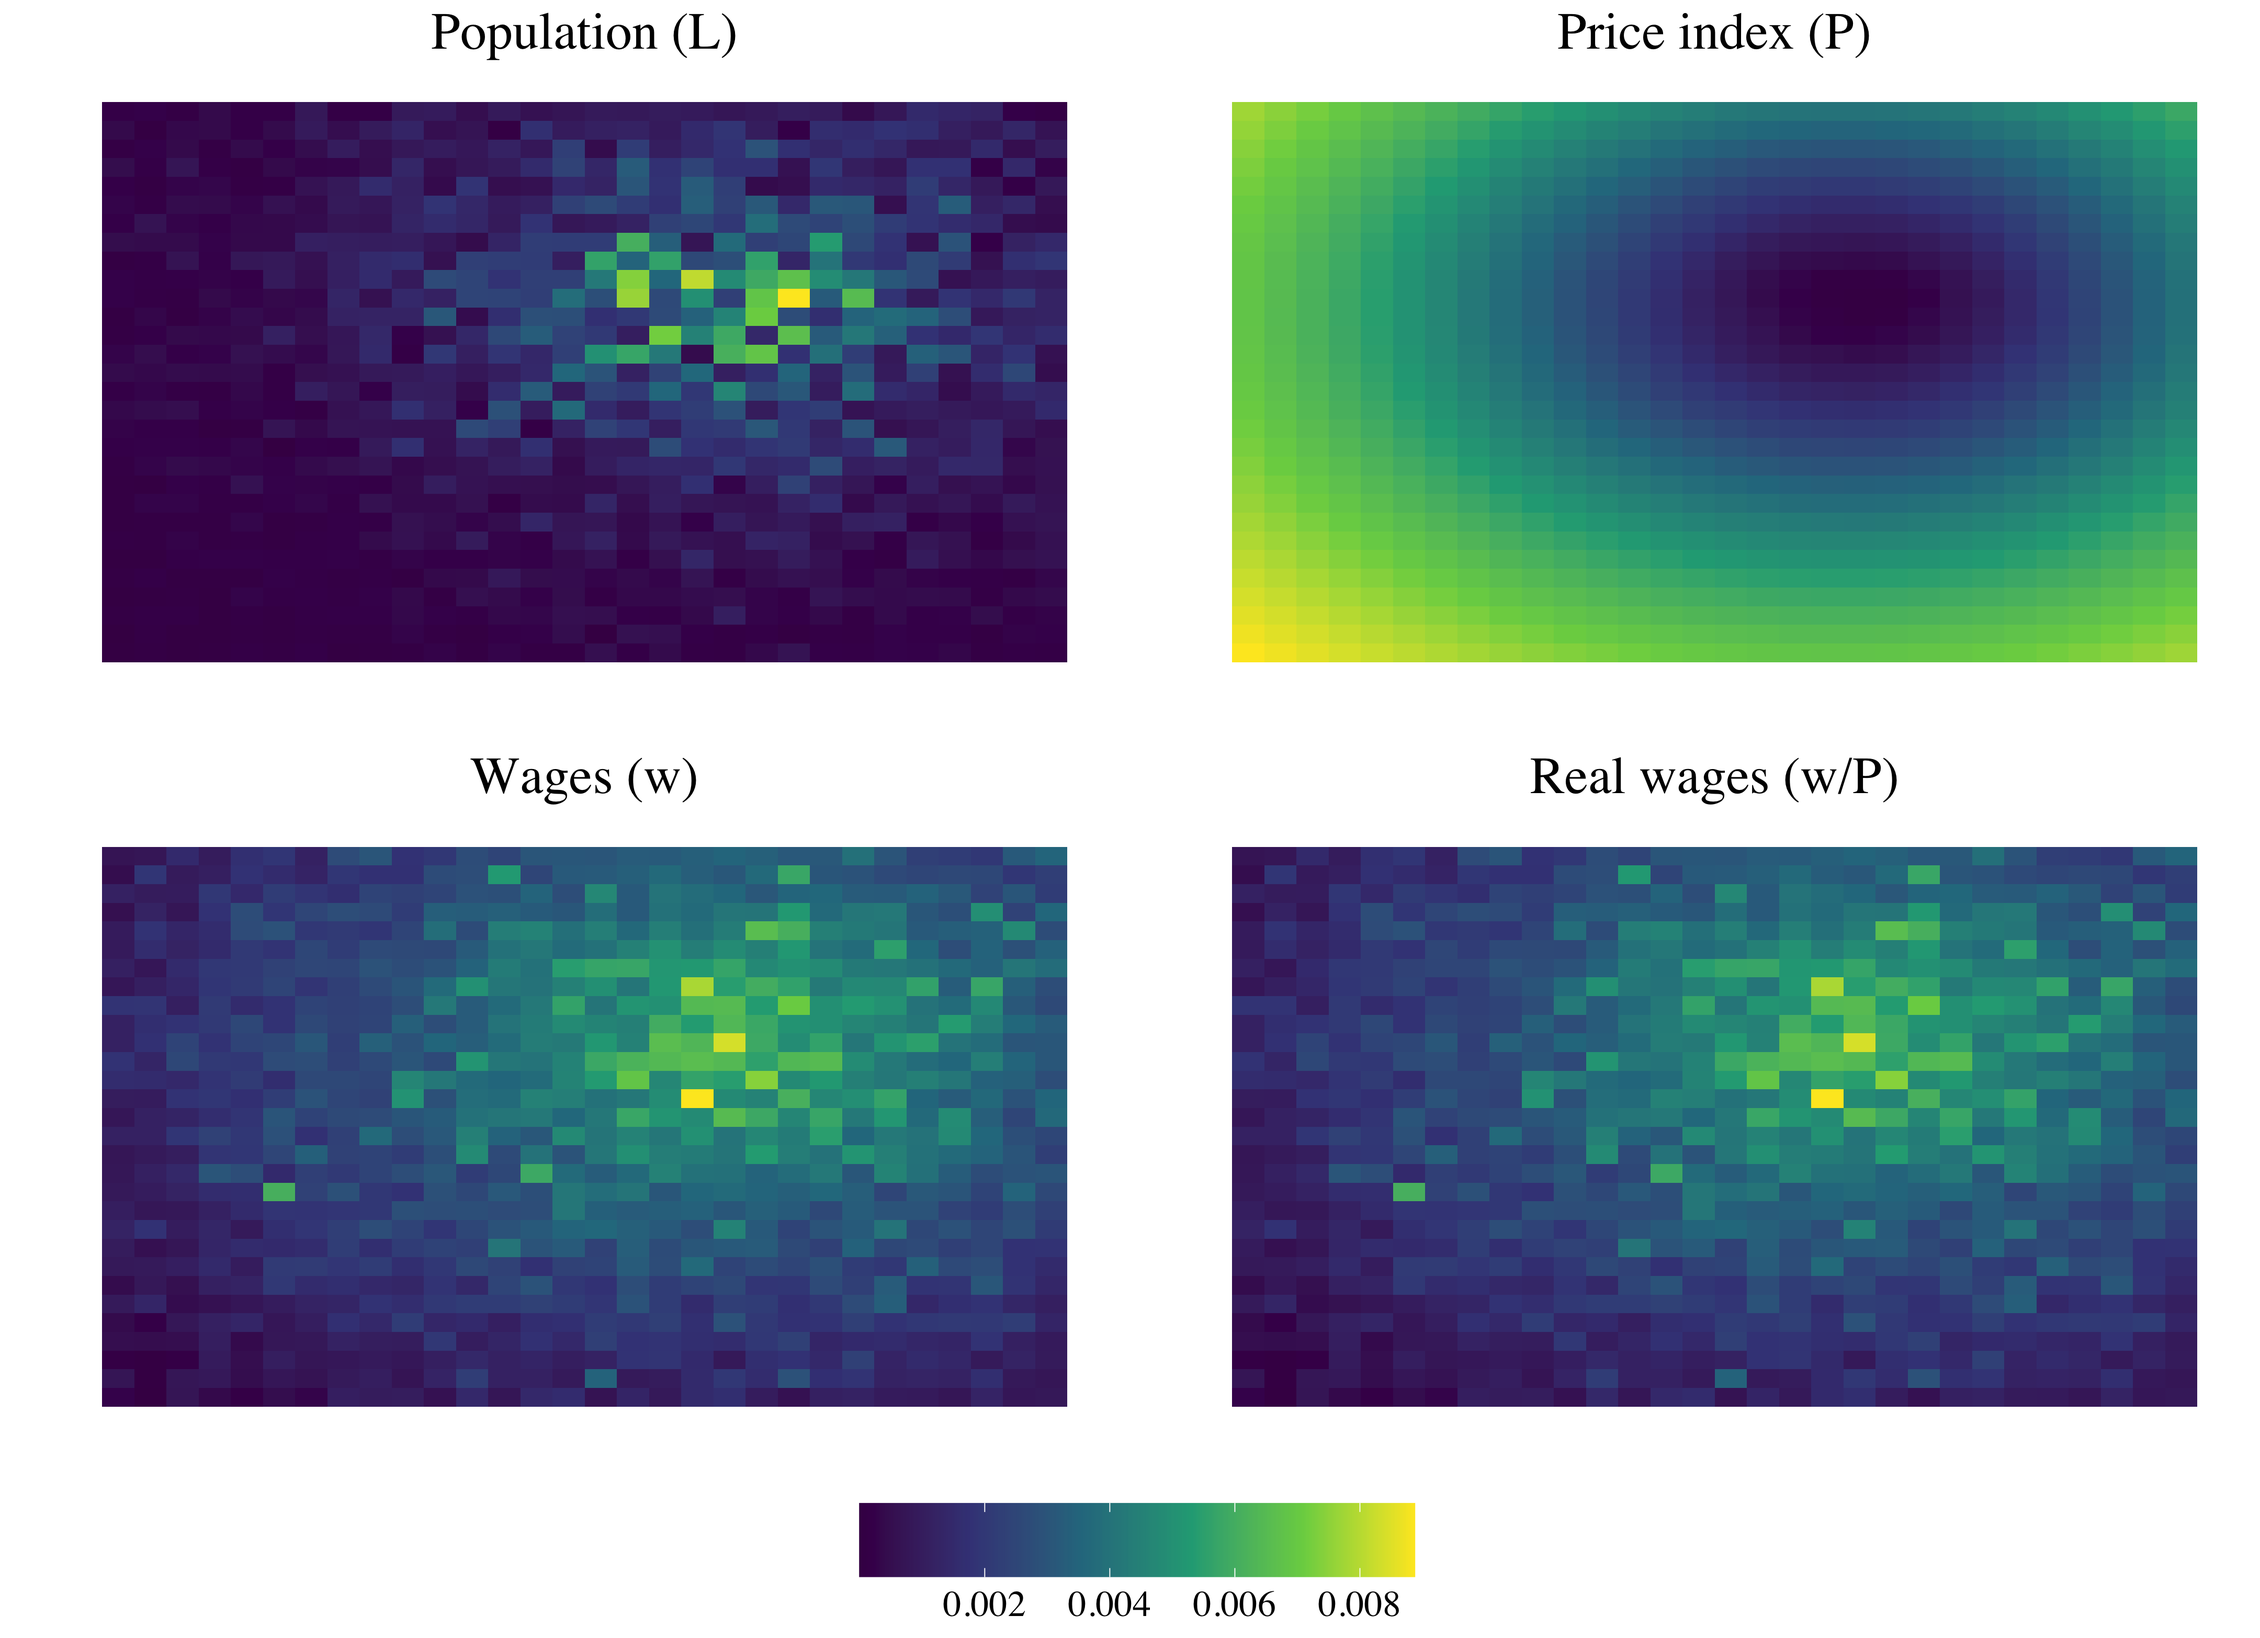
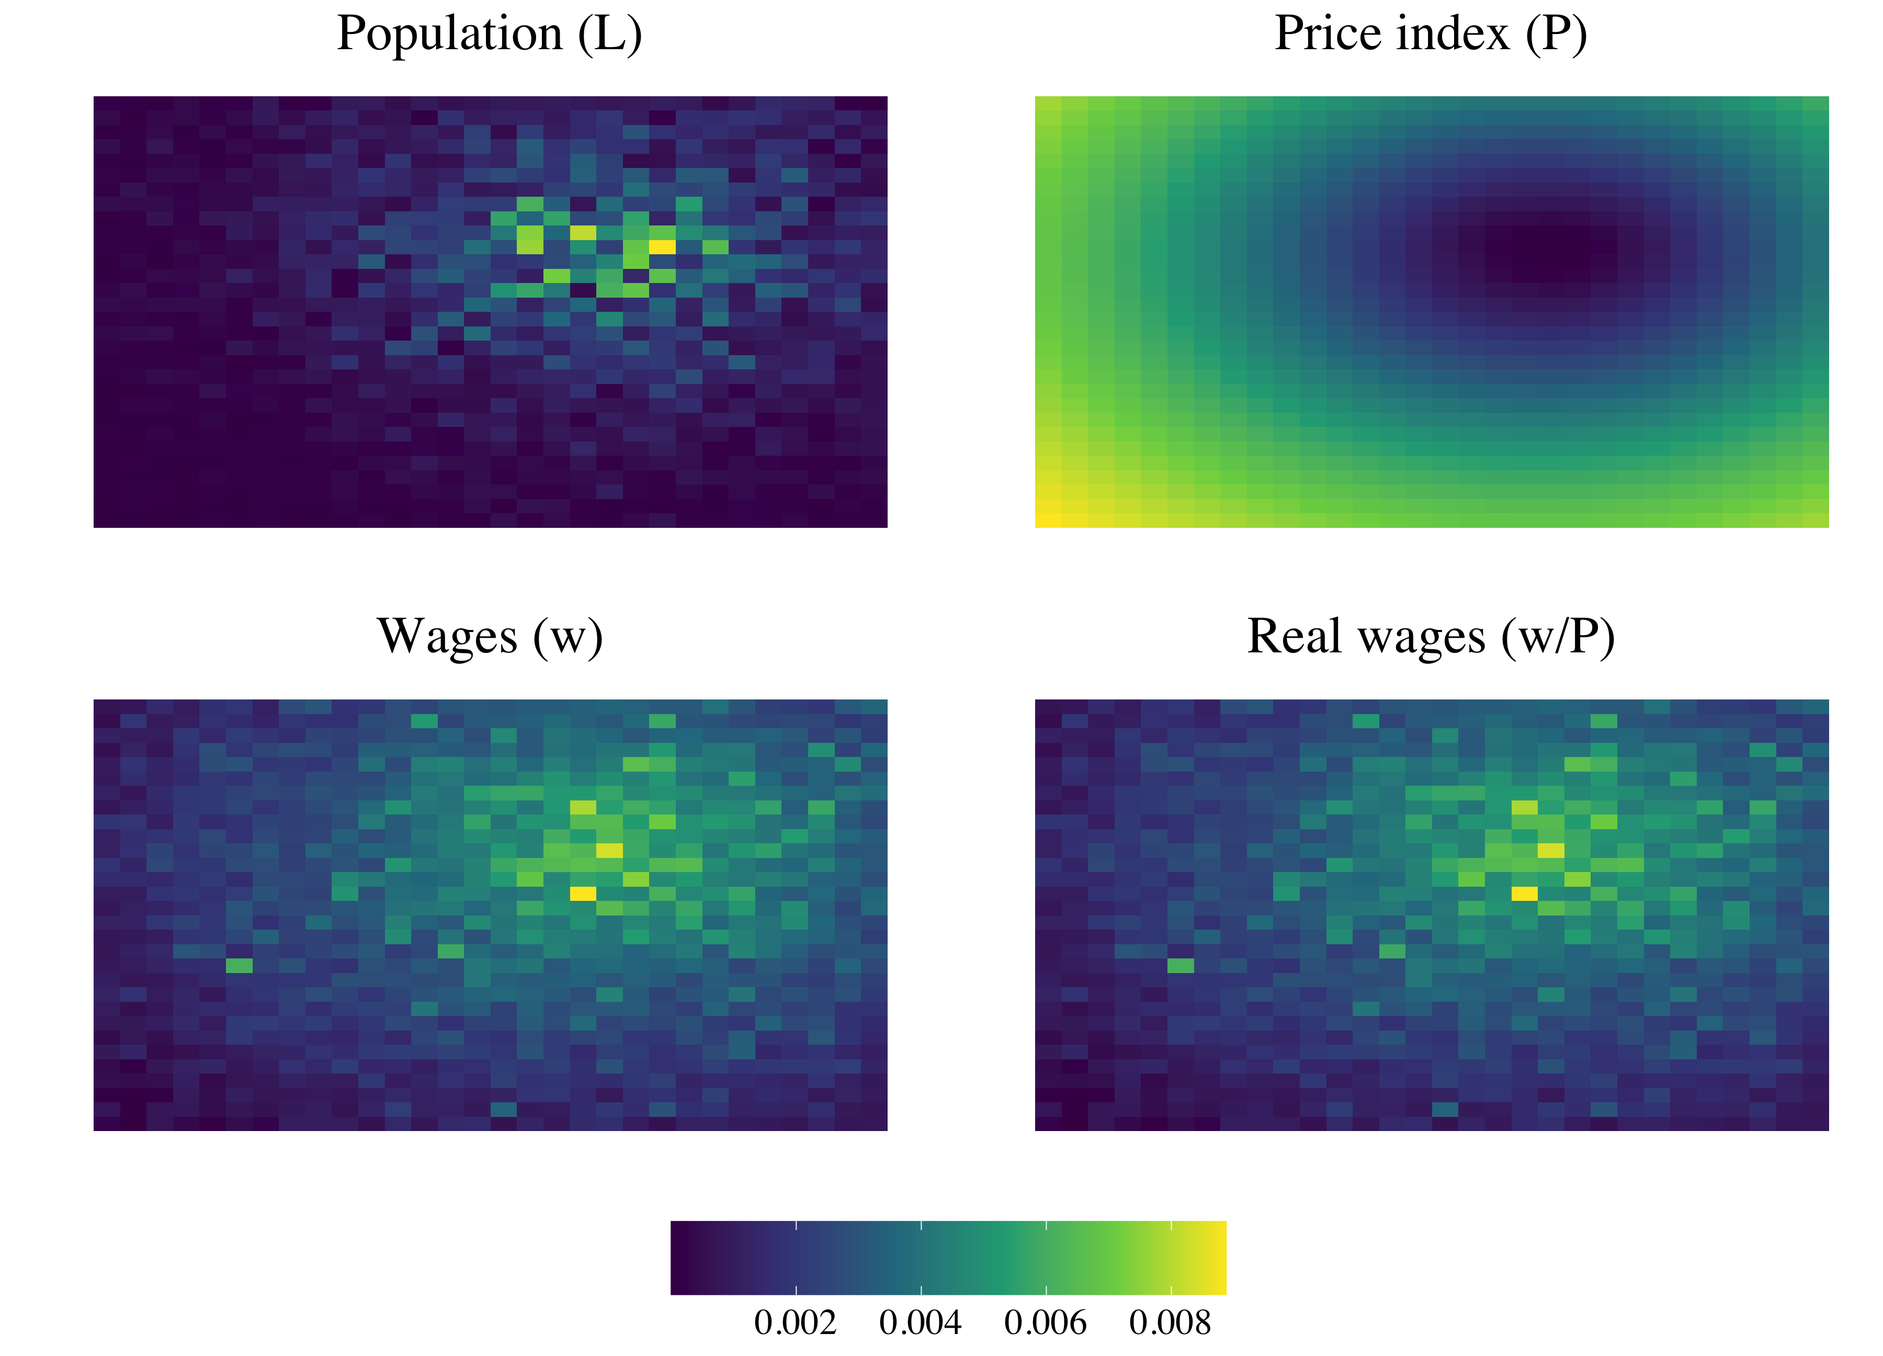
changes to lab 6

diff --git a/lectures/lecture_2_structural.html b/lectures/lecture_2_structural.html
@@ -4,7 +4,7 @@
     <title>Quantitative Economic Geography</title>
     <meta charset="utf-8" />
     <meta name="author" content="School of Economics - University of Bristol" />
-    <meta name="date" content="2026-10-30" />
+    <meta name="date" content="2026-11-03" />
     <script src="libs/header-attrs/header-attrs.js"></script>
     <link rel="stylesheet" href="xaringan-themer.css" type="text/css" />
   </head>
@@ -22,7 +22,7 @@ class: center, middle, inverse, title-slide
 ### School of Economics - University of Bristol
 ]
 .date[
-### 2026-10-30
+### 2026-11-03
 ]
 
 ---
@@ -129,6 +129,10 @@ How can we incorporate all these forces into *tractable, quantitative models*?
 
 
 
+
+
+
+
 ---
 
 ## Economic Activity in Europe
@@ -149,9 +153,28 @@ class: inverse, center, middle
 
 ---
 
+
+## A Benchmark Model
+
+In what follows, I introduce the basics of the spatial model of Allen and Arkolakis 2014.
+
+The model makes several structural assumptions governing the first and second nature forces above.
+
+However, it has several strengths:
+
+- It nests a range of more complex economic geography models. 
+
+- It remains fairly tractable 
+
+
+We will use the model to conduct counterfactuals and highlight identification challenges.
+
+
+
+---
+
 ## Geography
 
-&lt;!-- In what follows, I introduce the basics of the spatial model of Allen and Arkolakis 2014. --&gt;
 
 There are `\(R\)` regions indexed by `\(i\)` or `\(j\)` (e.g. states, municipalities, or counties).&lt;br&gt;&lt;br&gt;
 
@@ -397,7 +420,7 @@ We set `\(\sigma = 5\)`, `\(\alpha=0.5\)`, `\(\beta=-0.3\)`.
 
 
 
-&lt;img src="lecture_2_structural_files/figure-html/unnamed-chunk-4-1.png" width="1008" style="display: block; margin: auto;" /&gt;
+&lt;img src="lecture_2_structural_files/figure-html/unnamed-chunk-4-1.png" width="864" style="display: block; margin: auto;" /&gt;
 
 
 
@@ -410,7 +433,7 @@ We set `\(\sigma = 5\)`, `\(\alpha=0.5\)`, `\(\beta=-0.3\)`.
 
 
 
-&lt;img src="lecture_2_structural_files/figure-html/unnamed-chunk-6-1.png" width="864" style="display: block; margin: auto;" /&gt;
+&lt;img src="lecture_2_structural_files/figure-html/unnamed-chunk-6-1.png" width="720" style="display: block; margin: auto;" /&gt;
 
 
 
@@ -424,13 +447,13 @@ We set `\(\sigma = 5\)`, `\(\alpha=0.5\)`, `\(\beta=-0.3\)`.
 
 So what do we need to use this model to study counterfactuals in real data.
 
-We need estimates of the structural parameters. 
+We need estimates of the structural parameters (more on this below). 
 
 How do we recover model fundamentals `\(\mathcal{u}\)` and `\(\mathcal{A}\)`?
 
 If we have data on `\(\{L\}_{i=1}^R\)` and `\(\{w\}_{i=1}^R\)` as is often the case, we can *invert* the model.
 
-This means solving for `\(\mathcal{u}\)` and `\(\mathcal{A}\)` that rationalizes `\(\{L\}_{i=1}^R\)` and `\(\{w\}_{i=1}^R\)` as an equilibrium. 
+This means solving for `\(\mathcal{U}\)` and `\(\mathcal{A}\)` that rationalizes `\(\{L\}_{i=1}^R\)` and `\(\{w\}_{i=1}^R\)` as an equilibrium. 
 
 This is a good starting point for a counterfactual exercise. 
 
@@ -461,23 +484,19 @@ We can use this to solve for `\(\mathcal{A}\)` and then the wage equation to sol
 
 ---
 
-## Summary
+## Taking Stock
 
 &lt;div class="spacer"&gt;&lt;/div&gt;
 
-Simple model, but tractable and allows a realistic geography, and we can do interesting counterfactuals 
+Simple model, but tractable and allows a realistic geography, and we can do interesting counterfactuals.
+
+If we have the structural parameters, we can now use the model for counterfactuals.
 
 There are several extensions to the framework that are easy to incorporate. 
 
-We will turn to this next. 
+We will turn to this soon. 
 
 
-
-
-
----
-
-## Spatial Empirics
 
 
 
@@ -499,6 +518,7 @@ Key parameters we want to identify: The elasticity of popoulation and earnings t
 
 We will explore this issue in this section.  
 
+- We use a slightly more general formulation to make a more general point (have a look at the Appendix of Allen and Arkolakis 2022 for the exact mapping).
 
 
 ---
@@ -509,31 +529,47 @@ Let `\(Y_i\)` be the total income in location `\(i\)` (this is `\(w_i L_i\)` for
 
 Let `\(T_{ji}\)` be the inverse economic distance from `\(j\)` to `\(i\)` (this is `\(\tau_{ji}^{1-\sigma}\)` from before).
 
-The we can define the *inward market access* as
+Then we can define the inward and outward market access of location `\(i\)` as
 `\begin{equation}
-\large L_i^{\tilde{\sigma}\gamma_1} = \normalsize,
+\large MA_i^{out} = \sum_{j} T_{ij}\frac{Y_j}{MA_j^{in}} \normalsize,
 \end{equation}`
 `\begin{equation}
-\large L_i^{\tilde{\sigma}\gamma_1} = \normalsize,
+\large MA_i^{in} = \sum_{j} T_{ji}\frac{Y_j}{MA_j^{out}} \normalsize,
 \end{equation}`
+`\(MA_i^{out}\)` denotes how good the access to markets of firms in location `\(i\)` is (close to rich places with few options).
 
-and the *outward market access* as
+`\(MA_i^{in}\)` denotes how good access consumers in `\(j\)` are to sellers of goods (close to places with high output but few options to sell). 
+
 
 
 ---
 
 ## A General Formulation of the Model
 
-The labor supply and demand functions in each location can then be written by (normalize `\(\bar{V} = 1\)` from the baseline model).
-
+The labor supply and demand functions in each location can then be written as
 `\begin{equation}
-\large L_i^{\tilde{\sigma}\gamma_1} = \normalsize,
+\large \text{ln } w_{i} =  \varepsilon_{local}^{S} \text{ln }L_{i} +\text{ln }\varepsilon_{global}^{S} MA_i^{out} - \text{ln } C_i^{S} \normalsize,
 \end{equation}`
 `\begin{equation}
-\large L_i^{\tilde{\sigma}\gamma_1} = \normalsize,
+\large \text{ln } w_{i} =  \varepsilon_{local}^{D} \text{ln }L_{i} +\text{ln }\varepsilon_{global}^{D} MA_i^{in} + \text{ln } C_i^{D} \normalsize,
 \end{equation}`
+The labor demand is a function of size, productiveness and access to other markets (outward market access). 
 
-Locations are linked to many challenges in estimating the elasticities using variation in amenities and wages/population. 
+The labor supply is a function of size, amenities and access to other markets (inward market access). 
+
+The elasitcies `\(\varepsilon^{a}_b\)` are key parameters of interest, they will have different structural interpretations depending on the model. 
+
+&lt;!-- Locations are linked to many challenges in estimating the elasticities using variation in amenities and wages/population.  --&gt;
+
+To understand the dynamics and the implications for estimation of `\(\varepsilon^{a}_b\)` lets consider a local amenity shock. 
+
+
+
+
+
+
+
+
 
 
 ---
@@ -561,6 +597,14 @@ Locations are linked to many challenges in estimating the elasticities using var
 
 ---
 
+
+## Estimation
+
+Assume we have data on amenities and L, want to estimate epsilon.
+
+
+
+---
 
 class: inverse, center, middle
 
@@ -597,7 +641,7 @@ Thus, cross-sectional comparisons are problematic, since cities differ in many c
 ## West German Cities Near the Border
 
 
-&lt;img src="images/redding_sturm_fig_1.png" style="width:80%; height:auto; display:block; margin:auto;" /&gt;
+&lt;img src="images/redding_sturm_fig_1.png" style="width:70%; height:auto; display:block; margin:auto;" /&gt;
 
 
 

diff --git a/lectures/lecture_1_structural.html b/lectures/lecture_1_structural.html
@@ -4,7 +4,7 @@
     <title>Quantitative Economic Geography</title>
     <meta charset="utf-8" />
     <meta name="author" content="School of Economics - University of Bristol" />
-    <meta name="date" content="2026-10-28" />
+    <meta name="date" content="2026-11-03" />
     <script src="libs/header-attrs/header-attrs.js"></script>
     <link rel="stylesheet" href="xaringan-themer.css" type="text/css" />
   </head>
@@ -22,7 +22,7 @@ class: center, middle, inverse, title-slide
 ### School of Economics - University of Bristol
 ]
 .date[
-### 2026-10-28
+### 2026-11-03
 ]
 
 ---
@@ -408,7 +408,7 @@ Ahlfeldt, Gabriel M., Stephen J. Redding, Daniel M. Sturm, and Nikolaus Wolf. 20
 
 Allen, Treb, and Costas Arkolakis. 2014. “Trade and the Topography of the Spatial Economy.” *The Quarterly Journal of Economics* 129 (3): 1085–1140.
 
-Allen, Treb, and Costas Arkolakis. 2022. “[Add title].” *[Add journal/working paper]*.
+Allen, Treb, and Costas Arkolakis. 2022. “Economic Activity across Space: A Supply and Demand Approach” *Journal of Economic Perspectives* 37 (2): 3–28.
 
 Donaldson, Dave. 2018. “Railroads of the Raj: Estimating the Impact of Transportation Infrastructure.” *American Economic Review* 108 (4-5): 899–934.
 
